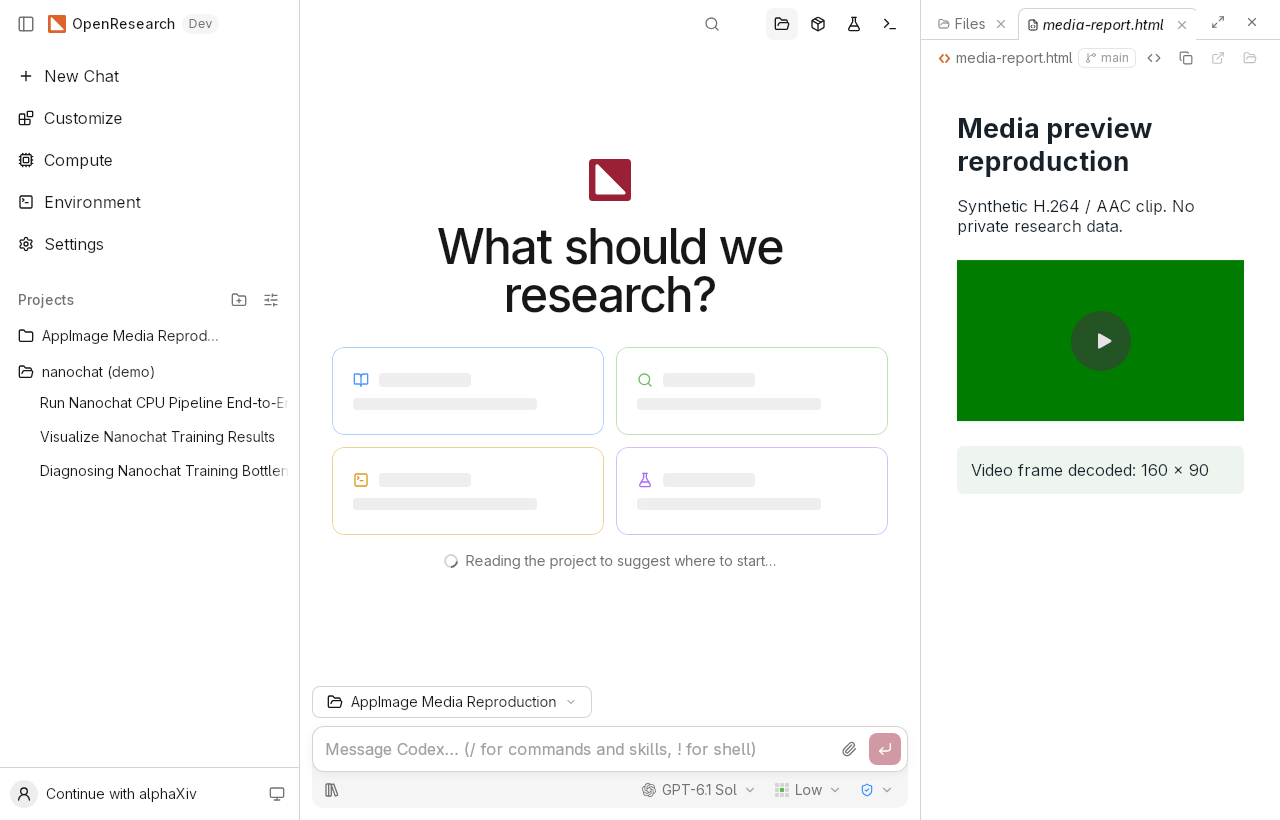
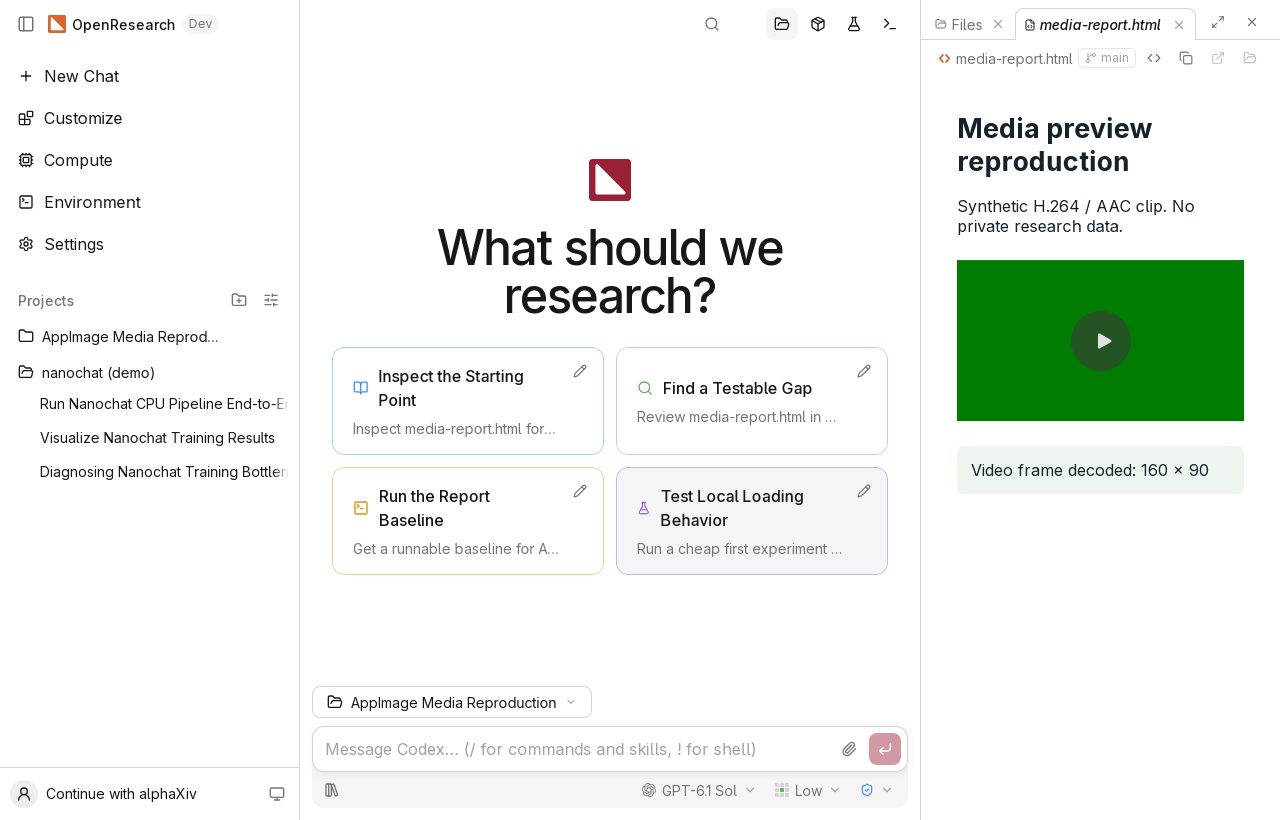
chore: record system media runtime evidence
Assisted-by: Codex

diff --git a/README.md b/README.md
@@ -1,15 +1,18 @@
-# HTML media preview regression evidence
+# AppImage system media runtime evidence
 
 Upstream issue: https://github.com/alphaXiv/OpenResearch/issues/1032
 
-Environment: Arch Linux x86_64, a real OpenResearch GTK/WebKit desktop window on an Xvfb display, 1280x820. Both runs use fresh application data and the same synthetic local project. No private report or user data is included.
+All reports and images in this branch are synthetic. No private report or account data is included.
 
-Open the project, select Files, then open media-report.html.
+- before.png: original v0.2.25 package freezes while loading a local HTML video; its WebKit process exits.
+- after.png: the revised small AppImage automatically selects Arch's system WebKit/GStreamer. Files -> media-report.html shows the decoded 160x90 frame. Restarting restores the preview successfully. No manual LD_LIBRARY_PATH was supplied. The test binary is a source-built v0.2.25 runtime, marked Dev.
+- missing-light.png / missing-dark.png: with system WebKit and media plugins hidden in a private mount namespace, the app shows dependency installation instructions before starting the dashboard. Escape closes the dialog and the launch returns 1.
+- media-report.html: the self-contained H.264/AAC report used in the real desktop flow.
 
-- before.png: original v0.2.25 AppImage. The preview is frozen at video loading after WebKit exits. The server health endpoint still returns 200. The log reports a missing GStreamer autoaudiosink element followed by GLib NULL-instance diagnostics.
-- after.png: source-built v0.2.25 desktop repackaged with the media-dependency fix. The video frame is decoded at 160x90. The source-built runtime is marked Dev in the window.
-- media-report.html: self-contained synthetic H.264/AAC video and Web Audio reproducer used for the desktop screenshots.
+The same built AppImage passes dashboard/media checks on Ubuntu 22.04, Ubuntu 24.04 and Debian 12 under Xvfb in containers. Ubuntu 22.04 additionally passes the bundled fallback after removing system WebKit, and shows the dependency dialog after removing media plugins. Native SDK paths and bundled fallback paths are checked in /proc. The media check validates AudioContext creation and a decoded green pixel, not full audio playback or subtitle support.
 
-The separate package smoke test additionally masks host WebKit/GStreamer and validates a green canvas pixel and AudioContext initialization. These screenshots alone do not establish full audio playback or subtitle support.
+With the same existing desktop executable, baseline package: 99,985,912 bytes; revised package: 99,990,008 bytes (4,096 bytes extra). No GStreamer media plugins or FFmpeg codec dependencies are added to the image. Missing system dependencies still take disk space when installed through the distribution.
+
+Local verification: 45 script tests; 10 shell-environment and 7 process Rust tests; cargo fmt and clippy; actionlint and offline zizmor. The runtime package reused a v0.2.25 executable; Rust environment changes are tested from the PR source. ARM64 desktop runtime execution, macOS/Windows windows, full playback and subtitles are outside this local runtime matrix.
 
 Assisted-by: Codex
